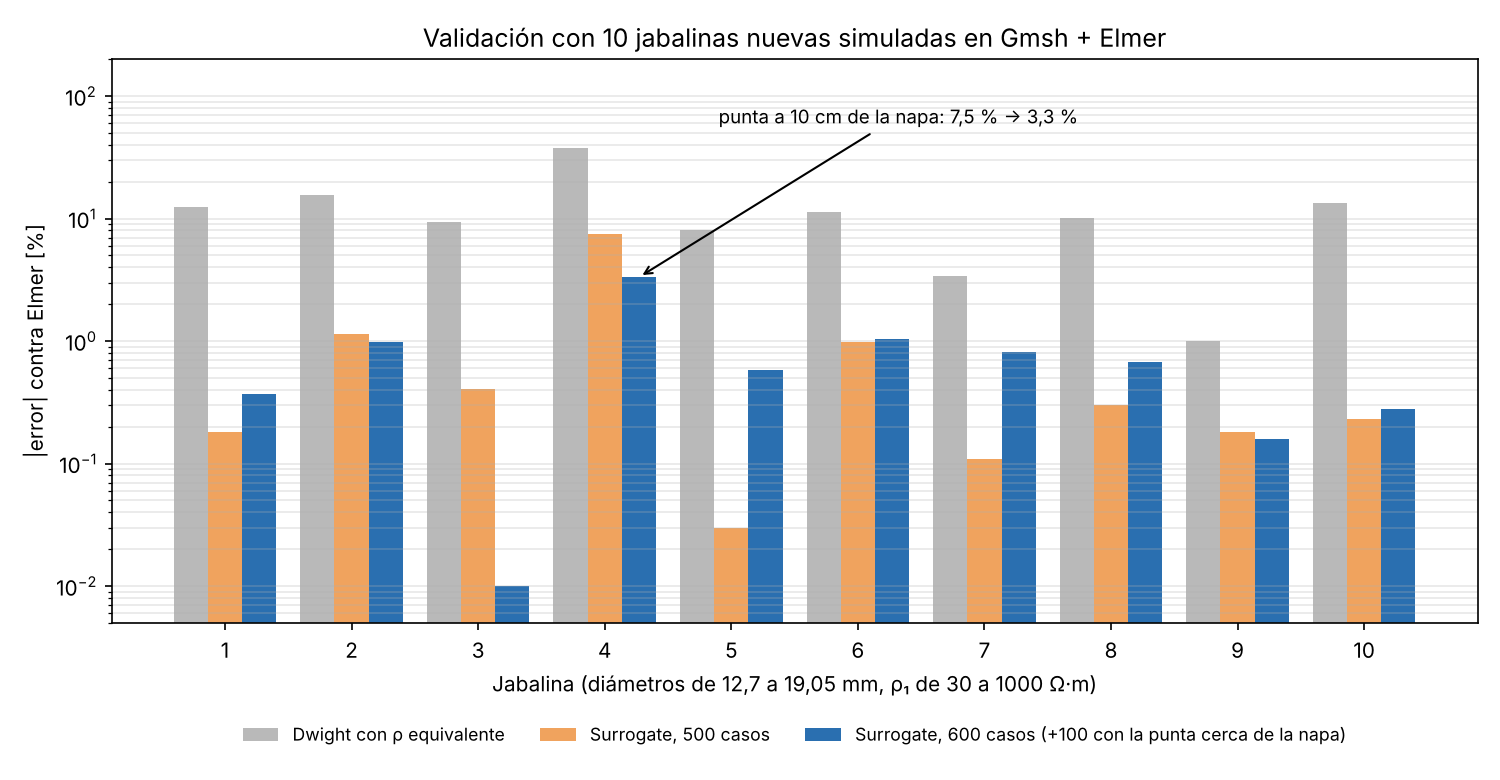
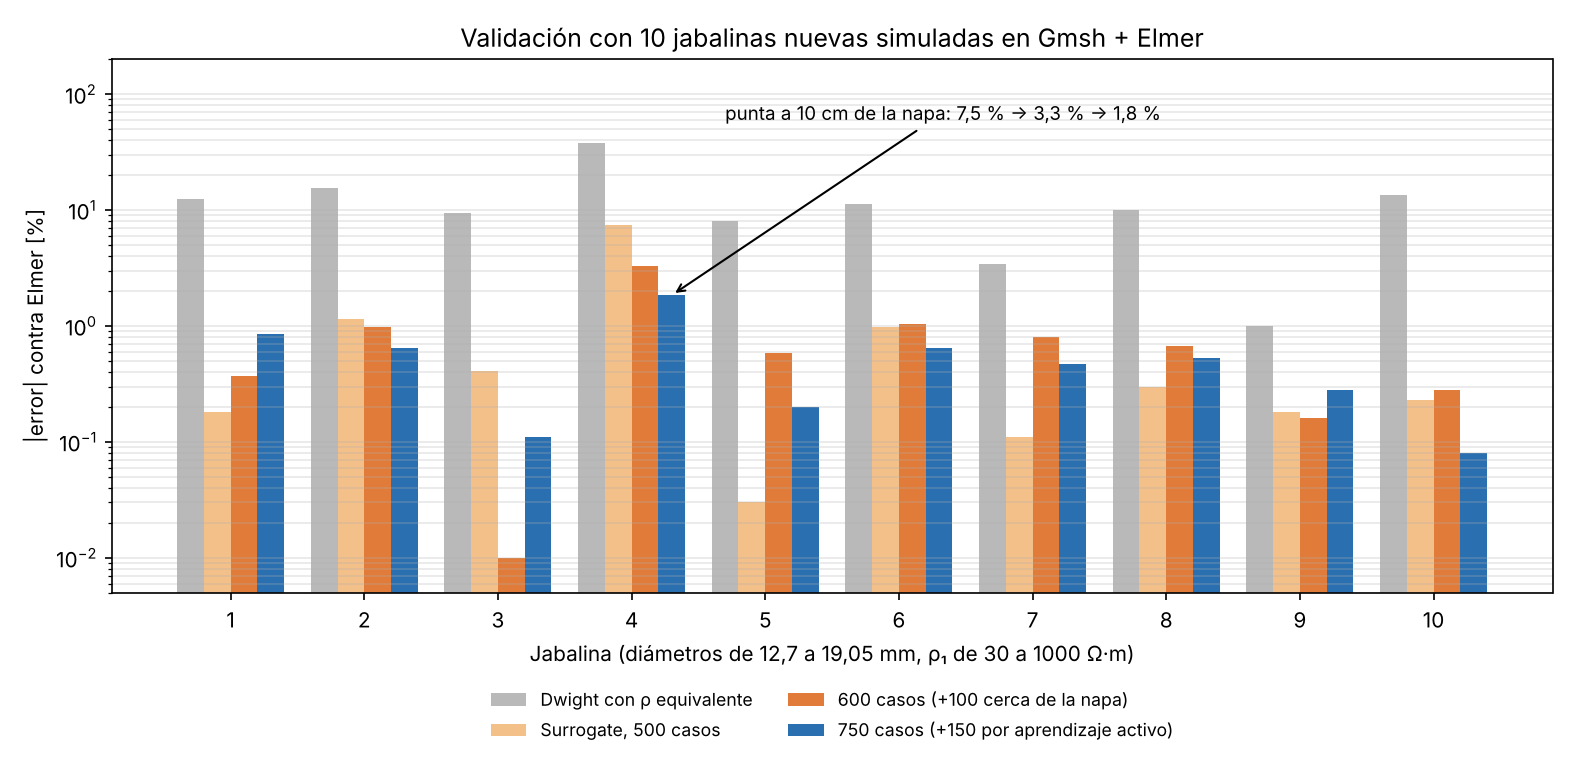
Aprendizaje activo: 750 casos, peor caso oculto de 17,7 % a 9,4 %, jabalina 4 a 1,8 %
Claude-Session: https://claude.ai/code/session_01Y8BDcqqBeNuuJ4XcJGWvje

diff --git a/README.md b/README.md
@@ -13,7 +13,7 @@ Una jabalina de puesta a tierra tiene que tener una resistencia baja para que, a
 1. **Simulación por elementos finitos** del problema axisimétrico con herramientas libres: geometría y malla paramétricas en **Gmsh** (punta semiesférica, refinamiento en la jabalina, la punta y la interfaz) y solución en **Elmer FEM**.
 2. **Validación** contra un motor analítico propio (método de los momentos con la función de Green de dos capas de Sunde): diferencia menor al 0,5 %.
 3. **Estudio de convergencia de malla por energía:** la potencia disipada P = V²/R se calcula para mallas cada vez más finas; con 2 mm en las zonas críticas el error estimado es 0,08 % y el tiempo por caso no aumenta.
-4. **Barrido automático de 600 casos** (Python controla Gmsh + Elmer, en paralelo, con reanudación y control de errores).
+4. **Barrido automático de 600 casos** (Python controla Gmsh + Elmer, en paralelo, con reanudación y control de errores), más **150 casos elegidos por el propio modelo** con aprendizaje activo.
 5. **Surrogate:** la fórmula de ingeniería más una corrección aprendida por un ensamble de redes neuronales. Predice R en milisegundos en lugar de segundos por simulación.
 
 ![Resistencia en función de la profundidad y campo en tres etapas](docs/resumen_vitrina.png)
@@ -24,11 +24,11 @@ Una jabalina de puesta a tierra tiene que tener una resistencia baja para que, a
 |---|---|---|
 | Dwight con suelo uniforme | > 100 % | > 1000 % |
 | Dwight con resistividad equivalente | 9,9 % | 44 % |
-| **Fórmula + corrección con ensamble de redes** | **0,48 %** | **3,3 %** |
+| **Fórmula + corrección con ensamble de redes** | **0,45 %** | **3,2 %** |
 
-*Conjunto de test: 120 simulaciones de Elmer que el modelo no vio durante el entrenamiento (80 % / 20 % de 600 casos).*
+*Conjunto de test: 120 simulaciones de Elmer que el modelo no vio durante el entrenamiento, fijas desde el principio (20 % de los 600 casos originales). El modelo se entrenó con los otros 630: 480 originales + 150 de aprendizaje activo.*
 
-![R predicha contra R de Elmer en el test: Dwight con ρ equivalente y el surrogate](docs/paridad_test.png)
+![R predicha contra R de Elmer en el test: Dwight con ρ equivalente y el surrogate (modelo de 600 casos)](docs/paridad_test.png)
 
 ### Validación con 10 jabalinas nuevas
 
@@ -38,10 +38,11 @@ Para probar el modelo fuera del test, se simularon en Gmsh + Elmer 10 jabalinas 
 |---|---|---|
 | Dwight con resistividad equivalente | 12,3 % | 37,8 % |
 | Surrogate (500 casos) | 1,10 % | 7,5 % |
-| **Surrogate (600 casos)** | **0,82 %** | **3,3 %** |
+| Surrogate (600 casos) | 0,82 % | 3,3 % |
+| **Surrogate (750 casos, con aprendizaje activo)** | **0,57 %** | **1,8 %** |
 | Método de los momentos (control de Elmer) | 0,33 % | 0,41 % |
 
-**Aprendizaje activo:** la primera validación encontró el punto débil del modelo. Una jabalina de 3 m con la napa a 2,9 m (solo los últimos 10 cm en la capa conductora) daba 7,5 % de error: ahí la corriente se concentra en la punta y R cae bruscamente, y el dataset tenía pocos casos con h/L ≈ 1. Se agregaron 100 simulaciones con h/L entre 0,85 y 1,1, se reentrenó y el error bajó a 3,3 %, sin cambiar nada más.
+**Aprendizaje activo:** la primera validación encontró el punto débil del modelo. Una jabalina de 3 m con la napa a 2,9 m (solo los últimos 10 cm en la capa conductora) daba 7,5 % de error: ahí la corriente se concentra en la punta y R cae bruscamente, y el dataset tenía pocos casos con h/L ≈ 1. Se agregaron 100 simulaciones con h/L entre 0,85 y 1,1, se reentrenó y el error bajó a 3,3 %, sin cambiar nada más. Después el aprendizaje activo automático (ver más abajo) lo llevó a 1,8 %.
 
 ![Validación con 10 jabalinas nuevas](docs/validacion_10_jabalinas.png)
 
@@ -60,12 +61,32 @@ Al principio los datos rinden mucho: de 60 a 240 casos el error se reduce a meno
 
 ![Curva de aprendizaje del surrogate](docs/curva_aprendizaje.png)
 
+### Aprendizaje activo: el modelo elige qué simular
+
+En vez de sumar casos al azar, el modelo decide qué le falta. En cada ronda:
+
+1. Genera 20 000 candidatos y los evalúa con las 5 redes del ensamble (0,2 s).
+2. Mide cuánto discrepan las redes entre sí en cada candidato: donde discrepan, el modelo duda.
+3. Manda a Elmer solo los 50 candidatos con más desacuerdo (unos 40 s) y se reentrena.
+
+Para medir zonas que el test de 120 casos no llega a cubrir, se agregó un test grande de 1000 casos repartidos por todo el rango, resuelto con el método de los momentos (difiere de Elmer en unos 0,3 %, suficiente para detectar errores grandes). Ese test encontró un punto débil oculto: **17,7 % de error** con la punta apenas dentro de una capa unas 18 veces más conductora.
+
+| | Inicial | Ronda 1 | Ronda 2 | Ronda 3 |
+|---|---|---|---|---|
+| Casos de entrenamiento | 480 | 530 | 580 | 630 |
+| Test de 120: error medio | 0,51 % | 0,48 % | 0,50 % | **0,45 %** |
+| Test grande (1000): peor caso | 17,7 % | 13,5 % | 13,2 % | **9,4 %** |
+
+Con 150 simulaciones, el peor caso del test grande bajó casi a la mitad. En un ensayo previo (con el método de los momentos como referencia en todo), 150 casos al azar no lo mejoraban: el peor caso quedaba en 17 %. El gráfico de la derecha muestra dónde pidió simulaciones el modelo: en los bordes del rango y cerca de la interfaz, justo donde el dataset original tenía menos información.
+
+![Aprendizaje activo: error por ronda y casos elegidos](docs/aprendizaje_activo.png)
+
 ![Estudio de convergencia de malla por energía](docs/convergencia_elmer.png)
 
 ## Decisiones técnicas
 
 - **Análisis dimensional:** R·L/ρ₁ depende solo de L/a, h/L y ρ₂/ρ₁. El modelo aprende en esas variables y generaliza a cualquier escala.
-- **Física + datos:** la red no aprende R desde cero, sino la corrección sobre la fórmula de ingeniería. Así el error medio baja de 9,9 % a 0,48 %.
+- **Física + datos:** la red no aprende R desde cero, sino la corrección sobre la fórmula de ingeniería. Así el error medio baja de 9,9 % a 0,45 %.
 - **Punta semiesférica:** con punta plana, la densidad de corriente en la punta crece sin límite al refinar la malla (singularidad de esquina); con punta curva converge.
 
   ![Punta plana contra punta semiesférica](docs/punta_plana_vs_curva.png)
